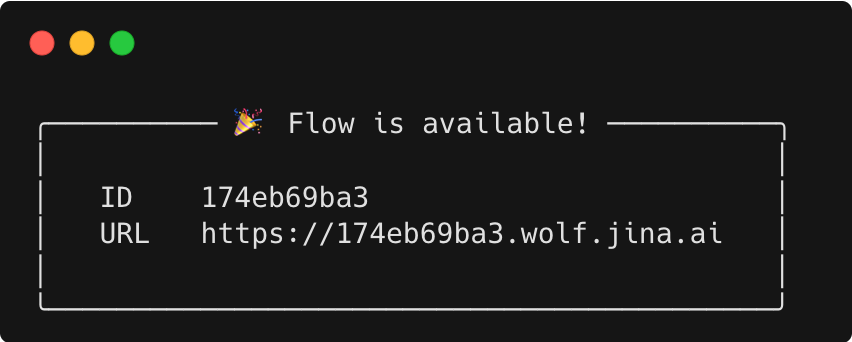
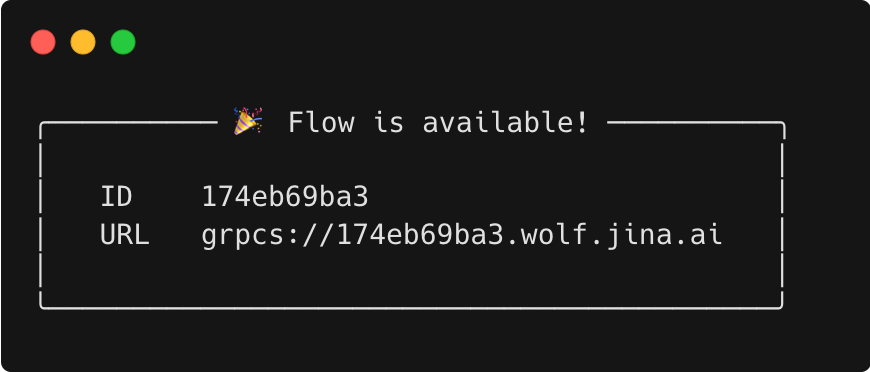
docs: remove unsed header; correct img

diff --git a/docs/user-guides/server.md b/docs/user-guides/server.md
@@ -519,15 +519,13 @@ The Flow is successfully deployed when you see:
 
 ```
 
-### Connect from Client
+After deploying on jcloud, you can connect to it via client by setting  `grpcs://` as follows:
 
 
 ```python
 from clip_client import Client
 
-c = Client(
-    'grpcs://174eb69ba3.wolf.jina.ai'
-)  # This is the URL you get from previous step
+c = Client('grpcs://174eb69ba3.wolf.jina.ai')  # This is the URL you get from previous step
 
 r = c.encode(
     [
